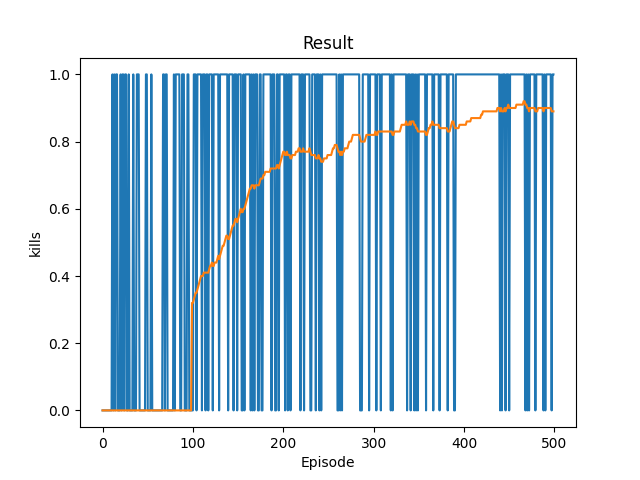
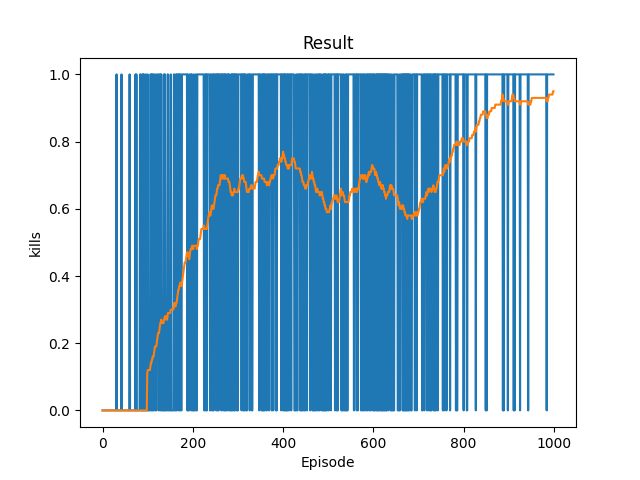
dqn one zombie finished

diff --git a/malmo_agent.py b/malmo_agent.py
@@ -49,7 +49,7 @@ class Agent:
         self.player_life = []
         self.survival_time = []
         self.state = [self.zombie_los_in_range, self.zombie_los, self.current_pos[0]
-            , self.current_pos[1], self.current_life, self.yaw, self.zombie_yaw, ]
+            , self.current_pos[1], self.current_life, self.yaw, self.zombie_yaw, self.zombies_pos[0], self.zombies_pos[1]]
 
     def start_episode(self, episode):
         print("Running mission #" + str(episode))
@@ -150,8 +150,8 @@ class Agent:
         if self.unresponsive_count <= 0 and not self.all_zombies_died:  # Agent died but we are here one tick before episode ends
             self.tick_reward -= 100
             print("Reward: -100")
-        self.state = [self.zombie_los_in_range, self.zombie_los, self.current_pos[0], self.current_pos[1],
-                      self.current_life, self.yaw, self.zombie_yaw]
+        self.state = [self.zombie_los_in_range, self.zombie_los, self.current_pos[0]
+            , self.current_pos[1], self.current_life, self.yaw, self.zombie_yaw, self.zombies_pos[0], self.zombies_pos[1]]
         self.total_reward += self.tick_reward  # Update total reward, never restore to 0
         self.episode_reward += self.tick_reward  # Update reward per episode, restore to 0 after each episode ends
 
@@ -190,8 +190,8 @@ class Agent:
         self.current_life = 20
         self.yaw = 0
         self.zombie_yaw = 0
-        self.state = [self.zombie_los_in_range, self.zombie_los, self.current_pos[0],
-                      self.current_pos[1], self.current_life, self.yaw, self.zombie_yaw]
+        self.state = [self.zombie_los_in_range, self.zombie_los, self.current_pos[0]
+            , self.current_pos[1], self.current_life, self.yaw, self.zombie_yaw, self.zombies_pos[0], self.zombies_pos[1]]
     def print_finish_data(self):
         print()
         print("=========================================")

diff --git a/train.py b/train.py
@@ -3,7 +3,7 @@ from __future__ import division
 from malmo_agent import *
 from ai import *
 
-NUM_EPISODES = 500
+NUM_EPISODES = 1000
 agent = Agent()
 
 for episode in range(NUM_EPISODES):
@@ -14,6 +14,7 @@ for episode in range(NUM_EPISODES):
         action = select_action(state)
         agent.play_action(action.item())
         agent.observe_env()
+        print(agent.state)
         reward = torch.tensor([agent.tick_reward], device=device)
         next_state = torch.tensor(agent.state, dtype=torch.float32, device=device).unsqueeze(0)
         memory.push(state, action, next_state, reward)
@@ -28,7 +29,7 @@ for episode in range(NUM_EPISODES):
         t += 1
 
     agent.update_per_episode()
-    plot_table(agent.rewards, "rewards")
+    # plot_table(agent.rewards, "rewards")
 
 print('Complete')
 plot_table(agent.rewards, "rewards", show_result=True)

diff --git a/ai.py b/ai.py
@@ -71,7 +71,7 @@ LR = 1e-4
 # Get number of actions from gym action space
 n_actions = 8
 # Get the number of state observations
-n_observations = 7
+n_observations = 9
 
 policy_net = DQN(n_observations, n_actions).to(device)
 target_net = DQN(n_observations, n_actions).to(device)
